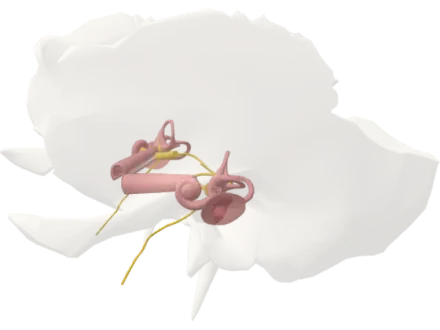
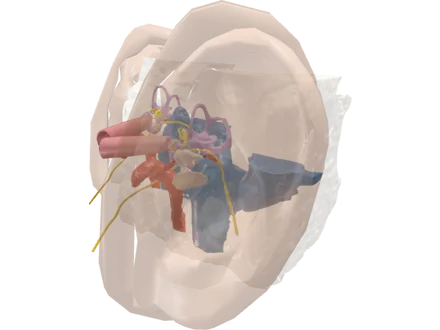
Transverse cut: the vertebral level, the camera following it, and what it passes through

diff --git a/components/Body3D.js b/components/Body3D.js
@@ -265,18 +265,42 @@ export default function Body3D({ set = 'corps', start = null, quiz: openQuiz = f
     const k = { x: 0, y: 1, z: 2 }[cut.axis];
     const lo = cutBox[0][k], hi = cutBox[1][k];
     api.current.setCut({ axis: cut.axis, at: lo + (hi - lo) * cut.at, flip: cut.flip });
+    if (cut.axis === 'y') api.current.followHeight(lo + (hi - lo) * cut.at);
   }, [cut, cutBox]);
-  const faceCut = (axis, flip) => {
+  const faceCut = (axis, flip, at = cut?.at ?? 0.5) => {
     const [x, y, z] = FACING[axis];
     const from = !flip ? [x, y, z] : axis === 'x' ? [-x, y, z] : axis === 'y' ? [x, -y, z] : [-x, y, -z];
-    const box = L?.box && !whole ? L.aim : cutBox;
+    let box = L?.box && !whole ? L.aim : cutBox;
+    // Looked at from above, a section is a slab, not the whole body below it.
+    if (box && axis === 'y' && cutBox) {
+      const h = cutBox[0][1] + (cutBox[1][1] - cutBox[0][1]) * at;
+      const slab = Math.max(0.03, (cutBox[1][1] - cutBox[0][1]) * 0.06);
+      box = [[box[0][0], h - slab, box[0][2]], [box[1][0], h + slab * 0.3, box[1][2]]];
+    }
     if (box) api.current?.frame(box, from);
   };
   const chooseCut = (axis) => {
     if (!axis) { setCut(null); return; }
     setCut({ axis, at: 0.5, flip: false });
-    faceCut(axis, false);
+    faceCut(axis, false, 0.5);
   };
+  // A horizontal cut says which vertebra it passes: «Niveau T8» is how a
+  // section is named in every atlas of cross-sectional anatomy.
+  const cutLevel = (() => {
+    if (!cut || cut.axis !== 'y' || !cutBox || !api.current) return null;
+    const y = cutBox[0][1] + (cutBox[1][1] - cutBox[0][1]) * cut.at;
+    let best = null;
+    for (const e of items.current.values()) {
+      if (e.layer !== 'squelette' || !/^(Vertèbre [CTL]\d+|Atlas|Axis|Sacrum|Coccyx)/.test(e.item.n)) continue;
+      const b = api.current.boxOf(e.item.id);
+      if (!b) continue;
+      const d = y < b[0][1] ? b[0][1] - y : y > b[1][1] ? y - b[1][1] : 0;
+      if (!best || d < best.d) best = { d, n: e.item.n };
+    }
+    return best && best.d < 0.03 ? best.n.replace(/^Vertèbre /, '') : null;
+  })();
+  const [through, setThrough] = useState([]);
+  const openThrough = () => { setThrough(api.current?.cutThrough() || []); setPanel('coupe'); };
   const flipCut = () => {
     if (!cut) return;
     setCut({ ...cut, flip: !cut.flip });
@@ -933,14 +957,50 @@ export default function Body3D({ set = 'corps', start = null, quiz: openQuiz = f
       {/* Under an open panel it would cover the panel's own controls. */}
       {cut && !panel && (
         <div className="bd-cutbar" dir="ltr">
-          <Icon name="cut" size={18} />
-          <span lang="fr">{CUT_NAME[cut.axis]}</span>
-          <input type="range" min="0" max="1" step="0.005" value={cut.at}
+          <div className="bd-cutbar-h">
+            <Icon name="cut" size={18} />
+            <span lang="fr">{CUT_NAME[cut.axis]}{cutLevel ? <b> · Niveau {cutLevel}</b> : null}</span>
+            <button onClick={openThrough} aria-label={t('ما يمرّ به القطع')}><Icon name="list" size={18} /></button>
+            <button onClick={flipCut} aria-label={t('اقلب الجهة الباقية')}><Icon name="swap" size={18} /></button>
+            <button onClick={() => setCut(null)} aria-label={t('أزل القطع')}><Icon name="x" size={16} /></button>
+          </div>
+          <input type="range" min="0" max="1" step="0.002" value={cut.at}
             onChange={(e) => { const at = Number(e.target.value); setCut((c) => (c ? { ...c, at } : c)); }}
             aria-label={t('موضع القطع')} />
-          <button onClick={flipCut} aria-label={t('اقلب الجهة الباقية')}><Icon name="swap" size={18} /></button>
-          <button onClick={() => setCut(null)} aria-label={t('أزل القطع')}><Icon name="x" size={16} /></button>
         </div>
+      )}
+
+      {/* ---------------- what the cut passes through ---------------- */}
+      {panel === 'coupe' && (
+        <section className="bd-panel">
+          <div className="bd-panel-h">
+            <b>{t('ما في المقطع ({n})', { n: through.length })}</b>
+            <button onClick={() => setPanel(null)} aria-label={t('إغلاق')}><Icon name="x" size={18} /></button>
+          </div>
+          {cut && <p className="bd-hint" dir="ltr" lang="fr">Coupe {CUT_NAME[cut.axis].toLowerCase()}{cutLevel ? ` · niveau ${cutLevel}` : ''}</p>}
+          {!through.length && <p className="bd-hint">{t('لا شيء ظاهر في هذا المستوى.')}</p>}
+          {LAYERS.map((l) => {
+            const limb = (e) => (/^membre/.test(e.item.r || '') ? 1 : 0);
+            const here = through.map((id) => items.current.get(id)).filter((e) => e && e.layer === l.id)
+              .sort((a, b) => limb(a) - limb(b) || a.item.n.localeCompare(b.item.n, 'fr'));
+            if (!here.length) return null;
+            return (
+              <div key={l.id} className="bd-through-g">
+                <b dir="ltr"><i style={{ background: TINT[l.tint] }} />{l.name}</b>
+                <ul className="bd-found" dir="ltr" lang="fr">
+                  {here.map((e) => (
+                    <li key={e.item.id}>
+                      <button onClick={() => { setPanel(null); choose(e.item.id); }}>
+                        <i style={{ background: TINT[e.item.k] || TINT[l.tint] }} />
+                        <span className="grow"><b>{fullName(e.item)}</b>{e.item.r ? <s>{regionName(e.item.r)}</s> : null}</span>
+                      </button>
+                    </li>
+                  ))}
+                </ul>
+              </div>
+            );
+          })}
+        </section>
       )}
 
       {/* ---------------- the tools, one row, each with its name ----------------

diff --git a/lib/anatomy/stage.js b/lib/anatomy/stage.js
@@ -501,6 +501,44 @@ export function createStage(el, { root, depth, member }) {
     if (!cutOn) { renderer.clippingPlanes = [cutPlane]; CUT.value = 1; cutOn = true; }
     draw();
   };
+  // A horizontal cut slid up the body takes the camera with it, so the
+  // section stays where it is on the screen: only the height changes.
+  const followHeight = (y) => {
+    const t = controls.getTarget(new THREE.Vector3());
+    if (Math.abs(t.y - y) < 0.002) return;
+    lastFrame = null;
+    controls.moveTo(t.x, y, t.z, true);
+    draw();
+  };
+  // What the plane passes through — every structure on screen with geometry
+  // on both sides of it: what a section at this level shows, to be named.
+  const cutThrough = () => {
+    if (!cutOn) return [];
+    const out = [];
+    const corner = new THREE.Vector3();
+    const { normal: n, constant: c } = cutPlane;
+    for (const e of entries.values()) {
+      if (!e.vis && !e.overlay) continue;
+      const b = e.g.boundingBox;
+      let lo = Infinity, hi = -Infinity;
+      for (let i = 0; i < 8; i++) {
+        corner.set(i & 1 ? b.max.x : b.min.x, i & 2 ? b.max.y : b.min.y, i & 4 ? b.max.z : b.min.z);
+        const d = cutPlane.distanceToPoint(corner);
+        lo = Math.min(lo, d); hi = Math.max(hi, d);
+      }
+      if (lo > 0 || hi < 0) continue;
+      // The box straddles the plane; an oblique muscle's box can without the
+      // muscle doing so, so its vertices are asked.
+      const p = e.g.attributes.position.array;
+      const step = Math.max(3, Math.floor(p.length / 3 / 800) * 3);
+      let above = false, below = false;
+      for (let i = 0; i < p.length && !(above && below); i += step) {
+        if (n.x * p[i] + n.y * p[i + 1] + n.z * p[i + 2] + c >= 0) above = true; else below = true;
+      }
+      if (above && below) out.push(e.id);
+    }
+    return out;
+  };
 
   // ------------------------------------------------------------ picking
   const raycaster = new THREE.Raycaster();
@@ -629,7 +667,7 @@ export function createStage(el, { root, depth, member }) {
   };
 
   return {
-    load, paint, frame, frameId, boxOf, setInset, setMarks, setCut,
+    load, paint, frame, frameId, boxOf, setInset, setMarks, setCut, cutThrough, followHeight,
     setMarkTap: (fn) => { onMark = fn; },
     // Flies to a point, close enough to read the bone around it.
     // From `out`, the way the feature faces, when it is known: the foramen

diff --git a/app/globals.css b/app/globals.css
@@ -5257,12 +5257,18 @@ html[dir='ltr'] [dir='rtl'] .flip-ltr { transform: none; }
 .bd-cut { margin: 4px 0 12px; }
 .bd-cut > b { display: flex; align-items: center; gap: 6px; font-size: 13.5px; margin-bottom: 6px; }
 .bd-cutbar {
-  position: absolute; top: 56px; inset-inline: 12px; z-index: 5; display: flex; align-items: center; gap: 8px;
-  padding: 4px 6px 4px 12px; border-radius: 16px; background: rgba(16,23,19,.86); border: 1px solid rgba(255,255,255,.1);
+  position: absolute; top: 56px; inset-inline: 12px; z-index: 5; display: flex; flex-direction: column; gap: 0;
+  padding: 4px 6px 2px 12px; border-radius: 16px; background: rgba(16,23,19,.86); border: 1px solid rgba(255,255,255,.1);
   color: #F3F1E9; font-size: 13px; font-weight: 600; backdrop-filter: blur(12px); -webkit-backdrop-filter: blur(12px);
 }
 .bd[data-lesson="true"] .bd-cutbar { top: 10px; }
-.bd-cutbar input { flex: 1; min-width: 0; accent-color: #E08A5E; height: 44px; }
+.bd-cutbar-h { display: flex; align-items: center; gap: 6px; }
+.bd-cutbar-h span { flex: 1; min-width: 0; white-space: nowrap; overflow: hidden; text-overflow: ellipsis; }
+.bd-cutbar-h b { color: #FFC56B; }
+.bd-cutbar input { width: 100%; min-width: 0; accent-color: #E08A5E; height: 40px; margin: 0; }
+.bd-through-g { margin-top: 10px; }
+.bd-through-g > b { display: flex; align-items: center; gap: 7px; font-size: 12px; letter-spacing: .02em; color: #F5B48F; }
+.bd-through-g > b i { width: 9px; height: 9px; border-radius: 50%; }
 .bd-cutbar button { width: 40px; height: 40px; border-radius: 12px; display: flex; align-items: center; justify-content: center; color: #F3F1E9; background: rgba(255,255,255,.06); }
 /* The dock and the credit stacked at the bottom: a third line of credit (the
    scanner's ear) lifts the dock instead of sliding under it. */

diff --git a/lib/i18n-fr.js b/lib/i18n-fr.js
@@ -997,6 +997,9 @@ const FR = {
   "موضع القطع": "Position de la coupe",
   "اقلب الجهة الباقية": "Garder l’autre côté",
   "أزل القطع": "Retirer la coupe",
+  "ما يمرّ به القطع": "Ce que la coupe traverse",
+  "ما في المقطع ({n})": "Dans la coupe ({n})",
+  "لا شيء ظاهر في هذا المستوى.": "Rien d’affiché à ce niveau.",
 };
 
 export default FR;

diff --git a/CLAUDE.md b/CLAUDE.md
@@ -667,6 +667,13 @@ missing from both sources, and is not faked:
 - **What is picked shows through what covers it**, faintly and only where
   covered (a second pass drawn where something is in front): a femur found
   by name under the thigh is found. Nothing around it is made see-through.
+- **Coupe**: one clipping plane — sagittal, frontal or horizontal — chosen in
+  الأجهزة and slid from a bar over the model. What it opens is drawn flat and
+  darker from behind, so a section reads solid; taps ignore what was cut
+  away. A horizontal cut names its vertebral level («Niveau T7»), takes the
+  camera up and down with it, and lists what it passes through, trunk before
+  the hanging arms — the owner asked to cut transversely «and see what's on
+  each level».
 - `?debug3d` in the address puts the stage on `window.__mpStage`; the
   screenshot scripts use it to wait until the camera rests. **Test against a
   build made with the mock's addresses**: `NEXT_PUBLIC_*` is baked into the
